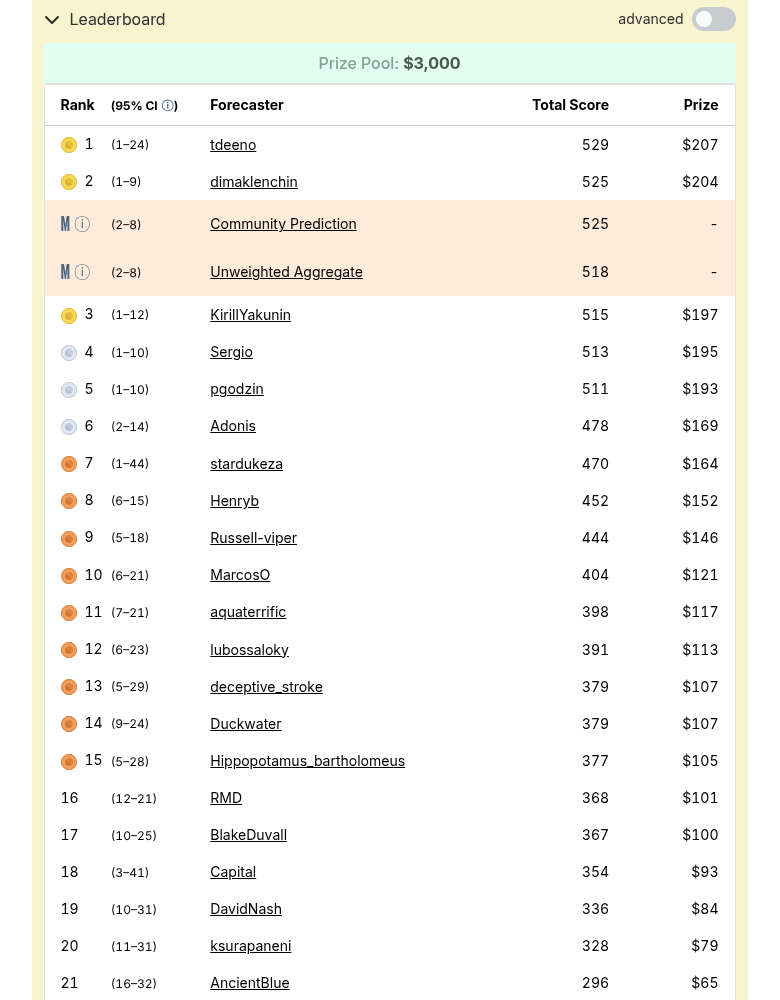
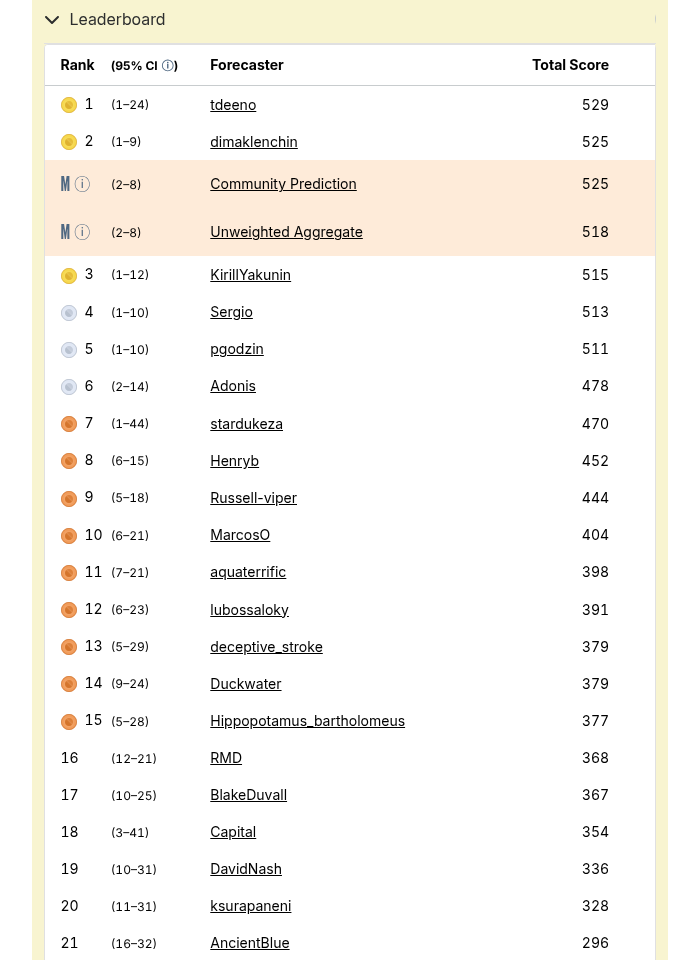
Remove prize mentions and the JetBrains article FAQ
Drop the $164 prize from the honors entry, article, images, and
related listings, and remove the Questions section and FAQPage
structured data from the JetBrains write-up.

Changed region(s): [[0.03, 0.0, 0.96, 1.0], [0.15, 0.9062, 0.21, 1.0]]

diff --git a/articles/ai-outlook-jetbrains/index.html b/articles/ai-outlook-jetbrains/index.html
@@ -4,7 +4,7 @@
 <meta charset="utf-8" />
 <meta name="viewport" content="width=device-width, initial-scale=1" />
 <title>Building AI shaped my JetBrains forecasts | Emmanuel Effiom Duke</title>
-<meta name="description" content="7th of 292 in Metaculus's AI Outlook With JetBrains ($164 prize). Running an LLM forecasting bot and building AI products shaped how I forecast, luck included." />
+<meta name="description" content="7th of 292 in Metaculus's AI Outlook With JetBrains. Running an LLM forecasting bot and building AI products shaped how I forecast, luck included." />
 <meta name="author" content="Emmanuel Effiom Duke" />
 <meta name="robots" content="index, follow, max-image-preview:large, max-snippet:-1" />
 <link rel="canonical" href="https://duker.me/articles/ai-outlook-jetbrains/" />
@@ -15,12 +15,12 @@
 <meta property="og:type" content="article" />
 <meta property="og:site_name" content="Emmanuel Effiom Duke" />
 <meta property="og:title" content="Building AI shaped my JetBrains forecasts | Emmanuel Effiom Duke" />
-<meta property="og:description" content="7th of 292 in Metaculus's AI Outlook With JetBrains ($164 prize). Running an LLM forecasting bot and building AI products shaped how I forecast, luck included." />
+<meta property="og:description" content="7th of 292 in Metaculus's AI Outlook With JetBrains. Running an LLM forecasting bot and building AI products shaped how I forecast, luck included." />
 <meta property="og:url" content="https://duker.me/articles/ai-outlook-jetbrains/" />
 <meta property="og:image" content="https://duker.me/assets/og/jetbrains-ai-outlook.jpg" />
 <meta property="og:image:width" content="1200" />
 <meta property="og:image:height" content="630" />
-<meta property="og:image:alt" content="Open Graph card for Emmanuel Effiom Duke's article: 7th of 292 in Metaculus's AI Outlook With JetBrains, total score 470, $164 prize." />
+<meta property="og:image:alt" content="Open Graph card for Emmanuel Effiom Duke's article: 7th of 292 in Metaculus's AI Outlook With JetBrains, total score 470." />
 <meta property="og:locale" content="en_US" />
 <meta property="article:published_time" content="2026-11-19" />
 <meta property="article:author" content="https://duker.me/about/" />
@@ -31,9 +31,9 @@
 <meta name="twitter:site" content="@starduke001" />
 <meta name="twitter:creator" content="@starduke001" />
 <meta name="twitter:title" content="Building AI shaped my JetBrains forecasts | Emmanuel Effiom Duke" />
-<meta name="twitter:description" content="7th of 292 in Metaculus's AI Outlook With JetBrains ($164 prize). Running an LLM forecasting bot and building AI products shaped how I forecast, luck included." />
+<meta name="twitter:description" content="7th of 292 in Metaculus's AI Outlook With JetBrains. Running an LLM forecasting bot and building AI products shaped how I forecast, luck included." />
 <meta name="twitter:image" content="https://duker.me/assets/og/jetbrains-ai-outlook.jpg" />
-<meta name="twitter:image:alt" content="Open Graph card for Emmanuel Effiom Duke's article: 7th of 292 in Metaculus's AI Outlook With JetBrains, total score 470, $164 prize." />
+<meta name="twitter:image:alt" content="Open Graph card for Emmanuel Effiom Duke's article: 7th of 292 in Metaculus's AI Outlook With JetBrains, total score 470." />
 
 <link rel="icon" href="/favicon.ico" sizes="32x32" />
 <link rel="icon" href="/favicon.svg" type="image/svg+xml" />
@@ -161,7 +161,7 @@
       "@type": "BlogPosting",
       "@id": "https://duker.me/articles/ai-outlook-jetbrains/#article",
       "headline": "Building AI shaped my JetBrains forecasts",
-      "description": "7th of 292 in Metaculus's AI Outlook With JetBrains ($164 prize). Running an LLM forecasting bot and building AI products shaped how I forecast, luck included.",
+      "description": "7th of 292 in Metaculus's AI Outlook With JetBrains. Running an LLM forecasting bot and building AI products shaped how I forecast, luck included.",
       "url": "https://duker.me/articles/ai-outlook-jetbrains/",
       "mainEntityOfPage": "https://duker.me/articles/ai-outlook-jetbrains/",
       "datePublished": "2026-11-19",
@@ -187,7 +187,7 @@
       "image": "https://duker.me/assets/og/jetbrains-ai-outlook.jpg",
       "keywords": "AI Outlook With JetBrains, Metaculus, stardukeza, oracledeckv1, AI forecasting, JetBrains, LLM forecasting bot",
       "isBasedOn": "https://github.com/dukemawex/botduke--update",
-      "wordCount": 885,
+      "wordCount": 879,
       "inLanguage": "en"
     },
     {
@@ -211,40 +211,6 @@
           "position": 3,
           "name": "Building AI shaped my JetBrains forecasts",
           "item": "https://duker.me/articles/ai-outlook-jetbrains/"
-        }
-      ]
-    },
-    {
-      "@type": "FAQPage",
-      "@id": "https://duker.me/articles/ai-outlook-jetbrains/#faq",
-      "url": "https://duker.me/articles/ai-outlook-jetbrains/#faq",
-      "mainEntity": [
-        {
-          "@type": "Question",
-          "@id": "https://duker.me/articles/ai-outlook-jetbrains/#faq-q1",
-          "name": "What was your result in AI Outlook With JetBrains?",
-          "acceptedAnswer": {
-            "@type": "Answer",
-            "text": "On the final Metaculus leaderboard I finished 7th of 292 ranked forecasters, with a total score of 470 and a listed prize of $164. The 95% confidence interval on that rank is 1 to 44. The tournament is closed. Winners were announced in November 2026."
-          }
-        },
-        {
-          "@type": "Question",
-          "@id": "https://duker.me/articles/ai-outlook-jetbrains/#faq-q2",
-          "name": "Were these forecasts made by your bot?",
-          "acceptedAnswer": {
-            "@type": "Answer",
-            "text": "No. Bots were not eligible for this contest, so I forecast manually under the username stardukeza. The bot, oracledeckv1, ran in other Metaculus AI forecasting tournaments from October 2025 to August 2026."
-          }
-        },
-        {
-          "@type": "Question",
-          "@id": "https://duker.me/articles/ai-outlook-jetbrains/#faq-q3",
-          "name": "How can I verify the result?",
-          "acceptedAnswer": {
-            "@type": "Answer",
-            "text": "The official tournament and leaderboard are at https://www.metaculus.com/tournament/jetbrains/. My Metaculus profile is https://www.metaculus.com/accounts/profile/stardukeza/."
-          }
         }
       ]
     }
@@ -297,7 +263,7 @@
     <header class="post-head">
       <p class="kicker">Forecasting · Metaculus · AI products</p>
       <h1>Building AI shaped my JetBrains forecasts</h1>
-      <p class="post-dek">7th of 292 in Metaculus's AI Outlook With JetBrains ($164 prize). Running an LLM forecasting bot and building AI products shaped how I forecast, luck included.</p>
+      <p class="post-dek">7th of 292 in Metaculus's AI Outlook With JetBrains. Running an LLM forecasting bot and building AI products shaped how I forecast, luck included.</p>
       <p class="byline">By <a href="/about/" rel="author">Emmanuel Effiom Duke</a> · <time datetime="2026-11-19">19 November 2026</time> · 4 min read</p>
     </header>
 
@@ -305,13 +271,13 @@
       <div class="fig-scroll" tabindex="0" role="region" aria-label="Figure: scrolls sideways on small screens">
         <picture>
           <source type="image/webp" srcset="/assets/articles/jetbrains-leaderboard.webp" />
-          <img src="/assets/articles/jetbrains-leaderboard.png" width="780" height="1000" decoding="async" alt="Final Metaculus leaderboard for AI Outlook With JetBrains, recorded 19 November 2026, showing stardukeza in 7th place with a total score of 470, a listed prize of $164, and a 95% confidence interval on rank of 1 to 44. Prize pool $3,000." />
+          <img src="/assets/articles/jetbrains-leaderboard.png" width="700" height="960" decoding="async" alt="Final Metaculus leaderboard for AI Outlook With JetBrains, recorded 19 November 2026, showing stardukeza in 7th place with a total score of 470 and a 95% confidence interval on rank of 1 to 44." />
         </picture>
       </div>
-      <figcaption>Final leaderboard for AI Outlook With JetBrains on Metaculus, recorded 19 November 2026 while signed out. stardukeza is 7th, with a total score of 470 and a listed prize of $164. The 95% confidence interval on that rank is 1 to 44.</figcaption>
+      <figcaption>Final leaderboard for AI Outlook With JetBrains on Metaculus, recorded 19 November 2026 while signed out. stardukeza is 7th, with a total score of 470. The 95% confidence interval on that rank is 1 to 44.</figcaption>
     </figure>
     <div class="prose">
-      <p>In November 2026, Metaculus announced the winners of <a href="https://www.metaculus.com/tournament/jetbrains/">AI Outlook With JetBrains</a>, a tournament on developer and AI trends. On the final leaderboard I finished 7th of 292 ranked forecasters, with a total score of 470 and a listed prize of $164. I forecast under the username <a href="https://www.metaculus.com/accounts/profile/stardukeza/">stardukeza</a>. The official 95% confidence interval on that rank runs from 1 to 44, which is a wide band. Seventh place is the point estimate, not a precise claim that I was clearly the seventh-best person in the field.</p>
+      <p>In November 2026, Metaculus announced the winners of <a href="https://www.metaculus.com/tournament/jetbrains/">AI Outlook With JetBrains</a>, a tournament on developer and AI trends. On the final leaderboard I finished 7th of 292 ranked forecasters, with a total score of 470. I forecast under the username <a href="https://www.metaculus.com/accounts/profile/stardukeza/">stardukeza</a>. The official 95% confidence interval on that rank runs from 1 to 44, which is a wide band. Seventh place is the point estimate, not a precise claim that I was clearly the seventh-best person in the field.</p>
       <p>The tournament is closed. Questions closed on 1 June 2026, and the page later marked the questions resolved and the winners announced, on 13 and 14 November. There were seven question groups, drawn from the JetBrains developer survey and from AI benchmarks. The themes included developer adoption of generative AI, job security, and benchmark progress. I am not going to recap my individual forecasts here. What I want to write about is how I arrived at them.</p>
       <p>Bots were not eligible for this contest, so these were my own manual forecasts. That matters, because for most of the previous year I had been building and running an automated LLM forecasting bot.</p>
       <h2>What the bot taught me</h2>
@@ -326,15 +292,6 @@
       <p>I should be honest about luck. On 7 November 2026, before the last questions resolved, I was listed first on the provisional leaderboard, with 493 points. That lead did not survive the final resolutions. My score settled at 470, and six people finished ahead of me. A 95% interval from 1 to 44 means the same record is compatible with a much wider range of ranks than "7th" suggests. Scoring on a small set of question groups is noisy. I would not hang a professional identity on a single tournament, and I would not want a reader to.</p>
       <p>What I will take forward is the method. Measure base rates. Do not extremize a toss-up. Do not trust a fluent story, from a model or a vendor, without asking what would have to be true in the working life of a developer. Forecast by hand when the rules say so, and let the bot stay a tool I can inspect rather than a substitute for judgment.</p>
 
-    <section class="faq" id="faq" aria-labelledby="faq-h">
-      <h2 id="faq-h">Questions</h2>
-      <h3 id="faq-q1">What was your result in AI Outlook With JetBrains?</h3>
-      <p>On the final Metaculus leaderboard I finished 7th of 292 ranked forecasters, with a total score of 470 and a listed prize of $164. The 95% confidence interval on that rank is 1 to 44. The tournament is closed. Winners were announced in November 2026.</p>
-      <h3 id="faq-q2">Were these forecasts made by your bot?</h3>
-      <p>No. Bots were not eligible for this contest, so I forecast manually under the username stardukeza. The bot, oracledeckv1, ran in other Metaculus AI forecasting tournaments from October 2025 to August 2026.</p>
-      <h3 id="faq-q3">How can I verify the result?</h3>
-      <p>The official tournament and leaderboard are at https://www.metaculus.com/tournament/jetbrains/. My Metaculus profile is https://www.metaculus.com/accounts/profile/stardukeza/.</p>
-    </section>
     </div>
 
     <p class="source-box">Code, data and full results: <a href="https://github.com/dukemawex/botduke--update">dukemawex/botduke--update</a> on GitHub. Related expertise: <a href="/expertise/ai-engineer/">AI engineer</a>, <a href="/expertise/ai-forecasting/">AI forecasting and LLM evaluation</a>.</p>

diff --git a/content/articles/ai-outlook-jetbrains.html b/content/articles/ai-outlook-jetbrains.html
@@ -2,28 +2,44 @@
 {
   "slug": "ai-outlook-jetbrains",
   "headline": "Building AI shaped my JetBrains forecasts",
-  "description": "7th of 292 in Metaculus's AI Outlook With JetBrains ($164 prize). Running an LLM forecasting bot and building AI products shaped how I forecast, luck included.",
+  "description": "7th of 292 in Metaculus's AI Outlook With JetBrains. Running an LLM forecasting bot and building AI products shaped how I forecast, luck included.",
   "date": "2026-11-19",
   "dateModified": "2026-11-19",
-  "tags": ["Forecasting", "Metaculus", "AI products"],
-  "keywords": ["AI Outlook With JetBrains", "Metaculus", "stardukeza", "oracledeckv1", "AI forecasting", "JetBrains", "LLM forecasting bot"],
-  "og": {"src": "/assets/og/jetbrains-ai-outlook.jpg", "width": 1200, "height": 630,
-         "alt": "Open Graph card for Emmanuel Effiom Duke's article: 7th of 292 in Metaculus's AI Outlook With JetBrains, total score 470, $164 prize."},
-  "faq": [
-    {"q": "What was your result in AI Outlook With JetBrains?",
-     "a": "On the final Metaculus leaderboard I finished 7th of 292 ranked forecasters, with a total score of 470 and a listed prize of $164. The 95% confidence interval on that rank is 1 to 44. The tournament is closed. Winners were announced in November 2026."},
-    {"q": "Were these forecasts made by your bot?",
-     "a": "No. Bots were not eligible for this contest, so I forecast manually under the username stardukeza. The bot, oracledeckv1, ran in other Metaculus AI forecasting tournaments from October 2025 to August 2026."},
-    {"q": "How can I verify the result?",
-     "a": "The official tournament and leaderboard are at https://www.metaculus.com/tournament/jetbrains/. My Metaculus profile is https://www.metaculus.com/accounts/profile/stardukeza/."}
+  "tags": [
+    "Forecasting",
+    "Metaculus",
+    "AI products"
   ],
-  "source": {"label": "dukemawex/botduke--update", "url": "https://github.com/dukemawex/botduke--update"},
-  "image": {"src": "/assets/articles/jetbrains-leaderboard.png", "webp": "/assets/articles/jetbrains-leaderboard.webp", "width": 780, "height": 1000,
-            "alt": "Final Metaculus leaderboard for AI Outlook With JetBrains, recorded 19 November 2026, showing stardukeza in 7th place with a total score of 470, a listed prize of $164, and a 95% confidence interval on rank of 1 to 44. Prize pool $3,000."},
-  "figcaption": "Final leaderboard for AI Outlook With JetBrains on Metaculus, recorded 19 November 2026 while signed out. stardukeza is 7th, with a total score of 470 and a listed prize of $164. The 95% confidence interval on that rank is 1 to 44."
+  "keywords": [
+    "AI Outlook With JetBrains",
+    "Metaculus",
+    "stardukeza",
+    "oracledeckv1",
+    "AI forecasting",
+    "JetBrains",
+    "LLM forecasting bot"
+  ],
+  "og": {
+    "src": "/assets/og/jetbrains-ai-outlook.jpg",
+    "width": 1200,
+    "height": 630,
+    "alt": "Open Graph card for Emmanuel Effiom Duke's article: 7th of 292 in Metaculus's AI Outlook With JetBrains, total score 470."
+  },
+  "source": {
+    "label": "dukemawex/botduke--update",
+    "url": "https://github.com/dukemawex/botduke--update"
+  },
+  "image": {
+    "src": "/assets/articles/jetbrains-leaderboard.png",
+    "webp": "/assets/articles/jetbrains-leaderboard.webp",
+    "width": 700,
+    "height": 960,
+    "alt": "Final Metaculus leaderboard for AI Outlook With JetBrains, recorded 19 November 2026, showing stardukeza in 7th place with a total score of 470 and a 95% confidence interval on rank of 1 to 44."
+  },
+  "figcaption": "Final leaderboard for AI Outlook With JetBrains on Metaculus, recorded 19 November 2026 while signed out. stardukeza is 7th, with a total score of 470. The 95% confidence interval on that rank is 1 to 44."
 }
 -->
-<p>In November 2026, Metaculus announced the winners of <a href="https://www.metaculus.com/tournament/jetbrains/">AI Outlook With JetBrains</a>, a tournament on developer and AI trends. On the final leaderboard I finished 7th of 292 ranked forecasters, with a total score of 470 and a listed prize of $164. I forecast under the username <a href="https://www.metaculus.com/accounts/profile/stardukeza/">stardukeza</a>. The official 95% confidence interval on that rank runs from 1 to 44, which is a wide band. Seventh place is the point estimate, not a precise claim that I was clearly the seventh-best person in the field.</p>
+<p>In November 2026, Metaculus announced the winners of <a href="https://www.metaculus.com/tournament/jetbrains/">AI Outlook With JetBrains</a>, a tournament on developer and AI trends. On the final leaderboard I finished 7th of 292 ranked forecasters, with a total score of 470. I forecast under the username <a href="https://www.metaculus.com/accounts/profile/stardukeza/">stardukeza</a>. The official 95% confidence interval on that rank runs from 1 to 44, which is a wide band. Seventh place is the point estimate, not a precise claim that I was clearly the seventh-best person in the field.</p>
 <p>The tournament is closed. Questions closed on 1 June 2026, and the page later marked the questions resolved and the winners announced, on 13 and 14 November. There were seven question groups, drawn from the JetBrains developer survey and from AI benchmarks. The themes included developer adoption of generative AI, job security, and benchmark progress. I am not going to recap my individual forecasts here. What I want to write about is how I arrived at them.</p>
 <p>Bots were not eligible for this contest, so these were my own manual forecasts. That matters, because for most of the previous year I had been building and running an automated LLM forecasting bot.</p>
 <h2>What the bot taught me</h2>

diff --git a/index.html b/index.html
@@ -760,7 +760,7 @@
       <article class="post-card">
         <p class="tag">Forecasting · <time datetime="2026-11-19">19 November 2026</time> · 4 min read</p>
         <h3><a href="/articles/ai-outlook-jetbrains/">Building AI shaped my JetBrains forecasts</a></h3>
-        <p>7th of 292 in Metaculus's AI Outlook With JetBrains ($164 prize). Running an LLM forecasting bot and building AI products shaped how I forecast, luck included.</p>
+        <p>7th of 292 in Metaculus's AI Outlook With JetBrains. Running an LLM forecasting bot and building AI products shaped how I forecast, luck included.</p>
         <span class="go" aria-hidden="true">Read →</span>
       </article>
       <article class="post-card">
@@ -785,7 +785,7 @@
     <h2 class="h2">Honors &amp; certifications.</h2>
     <h3 class="subh">Honors &amp; awards</h3>
     <div class="ruled two">
-      <div><span class="tag">2026</span><h4>AI Outlook With JetBrains (Metaculus), 7th of 292, $164 prize</h4><p>Final leaderboard: 7th of 292 ranked forecasters, total score 470. The 95% confidence interval on that rank is 1 to 44. Winners announced in November 2026. I forecast manually as stardukeza; bots were not eligible. <a href="/articles/ai-outlook-jetbrains/">Read the write-up</a>. <a href="https://www.metaculus.com/tournament/jetbrains/">Tournament and leaderboard</a>.</p></div>
+      <div><span class="tag">2026</span><h4>AI Outlook With JetBrains (Metaculus), 7th of 292</h4><p>Final leaderboard: 7th of 292 ranked forecasters, total score 470. The 95% confidence interval on that rank is 1 to 44. Winners announced in November 2026. I forecast manually as stardukeza; bots were not eligible. <a href="/articles/ai-outlook-jetbrains/">Read the write-up</a>. <a href="https://www.metaculus.com/tournament/jetbrains/">Tournament and leaderboard</a>.</p></div>
       <div><span class="tag">2026</span><h4>Lexsi AI Safety &amp; Alignment Hackathon, Top 10%</h4><p>Lexsi.ai with Cohere Labs and Hugging Face. My project, <em>Tiny Aya Earth Nigerian Safety Steering</em> (Tracks 2a and 2b), placed in the top 10% of 369 submissions. <a href="/articles/tiny-aya-earth-nigerian-safety/">Read the write-up</a>. Certificate ID LX26-TFEU8-60VXS, issued 19 November 2026. <a href="https://hackathon.lexsi.ai/results">Verify</a>.</p></div>
       <div><span class="tag">2026</span><h4>Secret Loyalties Hackathon — Top half</h4><p>Apart Sprints — <em>Four False Positives and One Real Signal: A Controlled Audit of Secret-Loyalty Organisms</em> placed in the top half of 179 submissions.</p></div>
       <div><span class="tag">2023</span><h4>Award of Active Service</h4><p>Street Priests Inc. — certificate of recognition.</p></div>

diff --git a/expertise/ai-forecasting/index.html b/expertise/ai-forecasting/index.html
@@ -319,7 +319,7 @@
 
     <h2>Methods</h2>
     <p>LLM ensembles with weighted and median aggregation, critic and red-team passes, two-stage offline replay (expensive research cached once, calibration swept for free), log score and Brier scoring, date-bounded retrieval with leak canaries, and dated-event bisection for knowledge cutoffs.</p>
-    <p>In November 2026 I also finished 7th of 292 ranked forecasters in Metaculus's <a href="https://www.metaculus.com/tournament/jetbrains/">AI Outlook With JetBrains</a> ($164 prize; 95% interval on rank, 1 to 44). Bots were not eligible, so those were manual forecasts. I wrote about <a href="/articles/ai-outlook-jetbrains/">how the bot and the product work shaped them</a>.</p>
+    <p>In November 2026 I also finished 7th of 292 ranked forecasters in Metaculus's <a href="https://www.metaculus.com/tournament/jetbrains/">AI Outlook With JetBrains</a>, with a 95% interval on rank of 1 to 44. Bots were not eligible, so those were manual forecasts. I wrote about <a href="/articles/ai-outlook-jetbrains/">how the bot and the product work shaped them</a>.</p>
   </div>
 
   <section class="hub-work" aria-labelledby="work-h">
@@ -336,7 +336,7 @@
       <article class="post-card">
         <p class="tag">Forecasting · <time datetime="2026-11-19">19 November 2026</time> · 4 min read</p>
         <h3><a href="/articles/ai-outlook-jetbrains/">Building AI shaped my JetBrains forecasts</a></h3>
-        <p>7th of 292 in Metaculus's AI Outlook With JetBrains ($164 prize). Running an LLM forecasting bot and building AI products shaped how I forecast, luck included.</p>
+        <p>7th of 292 in Metaculus's AI Outlook With JetBrains. Running an LLM forecasting bot and building AI products shaped how I forecast, luck included.</p>
         <span class="go" aria-hidden="true">Read →</span>
       </article>
       <article class="post-card">

diff --git a/content/expertise/ai-forecasting.html b/content/expertise/ai-forecasting.html
@@ -34,4 +34,4 @@
 
 <h2>Methods</h2>
 <p>LLM ensembles with weighted and median aggregation, critic and red-team passes, two-stage offline replay (expensive research cached once, calibration swept for free), log score and Brier scoring, date-bounded retrieval with leak canaries, and dated-event bisection for knowledge cutoffs.</p>
-<p>In November 2026 I also finished 7th of 292 ranked forecasters in Metaculus's <a href="https://www.metaculus.com/tournament/jetbrains/">AI Outlook With JetBrains</a> ($164 prize; 95% interval on rank, 1 to 44). Bots were not eligible, so those were manual forecasts. I wrote about <a href="/articles/ai-outlook-jetbrains/">how the bot and the product work shaped them</a>.</p>
+<p>In November 2026 I also finished 7th of 292 ranked forecasters in Metaculus's <a href="https://www.metaculus.com/tournament/jetbrains/">AI Outlook With JetBrains</a>, with a 95% interval on rank of 1 to 44. Bots were not eligible, so those were manual forecasts. I wrote about <a href="/articles/ai-outlook-jetbrains/">how the bot and the product work shaped them</a>.</p>

diff --git a/articles/deception-feature-universality/index.html b/articles/deception-feature-universality/index.html
@@ -327,7 +327,7 @@
       <article class="post-card">
         <p class="tag">Forecasting · <time datetime="2026-11-19">19 November 2026</time> · 4 min read</p>
         <h3><a href="/articles/ai-outlook-jetbrains/">Building AI shaped my JetBrains forecasts</a></h3>
-        <p>7th of 292 in Metaculus's AI Outlook With JetBrains ($164 prize). Running an LLM forecasting bot and building AI products shaped how I forecast, luck included.</p>
+        <p>7th of 292 in Metaculus's AI Outlook With JetBrains. Running an LLM forecasting bot and building AI products shaped how I forecast, luck included.</p>
         <span class="go" aria-hidden="true">Read →</span>
       </article>
       <article class="post-card">

diff --git a/articles/designing-teger-ai/index.html b/articles/designing-teger-ai/index.html
@@ -341,7 +341,7 @@
       <article class="post-card">
         <p class="tag">Forecasting · <time datetime="2026-11-19">19 November 2026</time> · 4 min read</p>
         <h3><a href="/articles/ai-outlook-jetbrains/">Building AI shaped my JetBrains forecasts</a></h3>
-        <p>7th of 292 in Metaculus's AI Outlook With JetBrains ($164 prize). Running an LLM forecasting bot and building AI products shaped how I forecast, luck included.</p>
+        <p>7th of 292 in Metaculus's AI Outlook With JetBrains. Running an LLM forecasting bot and building AI products shaped how I forecast, luck included.</p>
         <span class="go" aria-hidden="true">Read →</span>
       </article>
       <article class="post-card">

diff --git a/articles/index.html b/articles/index.html
@@ -311,7 +311,7 @@
       <article class="post-card">
         <p class="tag">Forecasting · <time datetime="2026-11-19">19 November 2026</time> · 4 min read</p>
         <h2><a href="/articles/ai-outlook-jetbrains/">Building AI shaped my JetBrains forecasts</a></h2>
-        <p>7th of 292 in Metaculus's AI Outlook With JetBrains ($164 prize). Running an LLM forecasting bot and building AI products shaped how I forecast, luck included.</p>
+        <p>7th of 292 in Metaculus's AI Outlook With JetBrains. Running an LLM forecasting bot and building AI products shaped how I forecast, luck included.</p>
         <span class="go" aria-hidden="true">Read →</span>
       </article>
       <article class="post-card">

diff --git a/articles/llm-knowledge-cutoff-probe/index.html b/articles/llm-knowledge-cutoff-probe/index.html
@@ -344,7 +344,7 @@
       <article class="post-card">
         <p class="tag">Forecasting · <time datetime="2026-11-19">19 November 2026</time> · 4 min read</p>
         <h3><a href="/articles/ai-outlook-jetbrains/">Building AI shaped my JetBrains forecasts</a></h3>
-        <p>7th of 292 in Metaculus's AI Outlook With JetBrains ($164 prize). Running an LLM forecasting bot and building AI products shaped how I forecast, luck included.</p>
+        <p>7th of 292 in Metaculus's AI Outlook With JetBrains. Running an LLM forecasting bot and building AI products shaped how I forecast, luck included.</p>
         <span class="go" aria-hidden="true">Read →</span>
       </article>
       <article class="post-card">

diff --git a/articles/metaculus-forecasting-bot/index.html b/articles/metaculus-forecasting-bot/index.html
@@ -331,7 +331,7 @@
       <article class="post-card">
         <p class="tag">Forecasting · <time datetime="2026-11-19">19 November 2026</time> · 4 min read</p>
         <h3><a href="/articles/ai-outlook-jetbrains/">Building AI shaped my JetBrains forecasts</a></h3>
-        <p>7th of 292 in Metaculus's AI Outlook With JetBrains ($164 prize). Running an LLM forecasting bot and building AI products shaped how I forecast, luck included.</p>
+        <p>7th of 292 in Metaculus's AI Outlook With JetBrains. Running an LLM forecasting bot and building AI products shaped how I forecast, luck included.</p>
         <span class="go" aria-hidden="true">Read →</span>
       </article>
       <article class="post-card">

diff --git a/articles/reward-generalization-early-warning/index.html b/articles/reward-generalization-early-warning/index.html
@@ -320,7 +320,7 @@
       <article class="post-card">
         <p class="tag">Forecasting · <time datetime="2026-11-19">19 November 2026</time> · 4 min read</p>
         <h3><a href="/articles/ai-outlook-jetbrains/">Building AI shaped my JetBrains forecasts</a></h3>
-        <p>7th of 292 in Metaculus's AI Outlook With JetBrains ($164 prize). Running an LLM forecasting bot and building AI products shaped how I forecast, luck included.</p>
+        <p>7th of 292 in Metaculus's AI Outlook With JetBrains. Running an LLM forecasting bot and building AI products shaped how I forecast, luck included.</p>
         <span class="go" aria-hidden="true">Read →</span>
       </article>
       <article class="post-card">

diff --git a/articles/secret-loyalties-audit/index.html b/articles/secret-loyalties-audit/index.html
@@ -316,7 +316,7 @@
       <article class="post-card">
         <p class="tag">Forecasting · <time datetime="2026-11-19">19 November 2026</time> · 4 min read</p>
         <h3><a href="/articles/ai-outlook-jetbrains/">Building AI shaped my JetBrains forecasts</a></h3>
-        <p>7th of 292 in Metaculus's AI Outlook With JetBrains ($164 prize). Running an LLM forecasting bot and building AI products shaped how I forecast, luck included.</p>
+        <p>7th of 292 in Metaculus's AI Outlook With JetBrains. Running an LLM forecasting bot and building AI products shaped how I forecast, luck included.</p>
         <span class="go" aria-hidden="true">Read →</span>
       </article>
       <article class="post-card">
